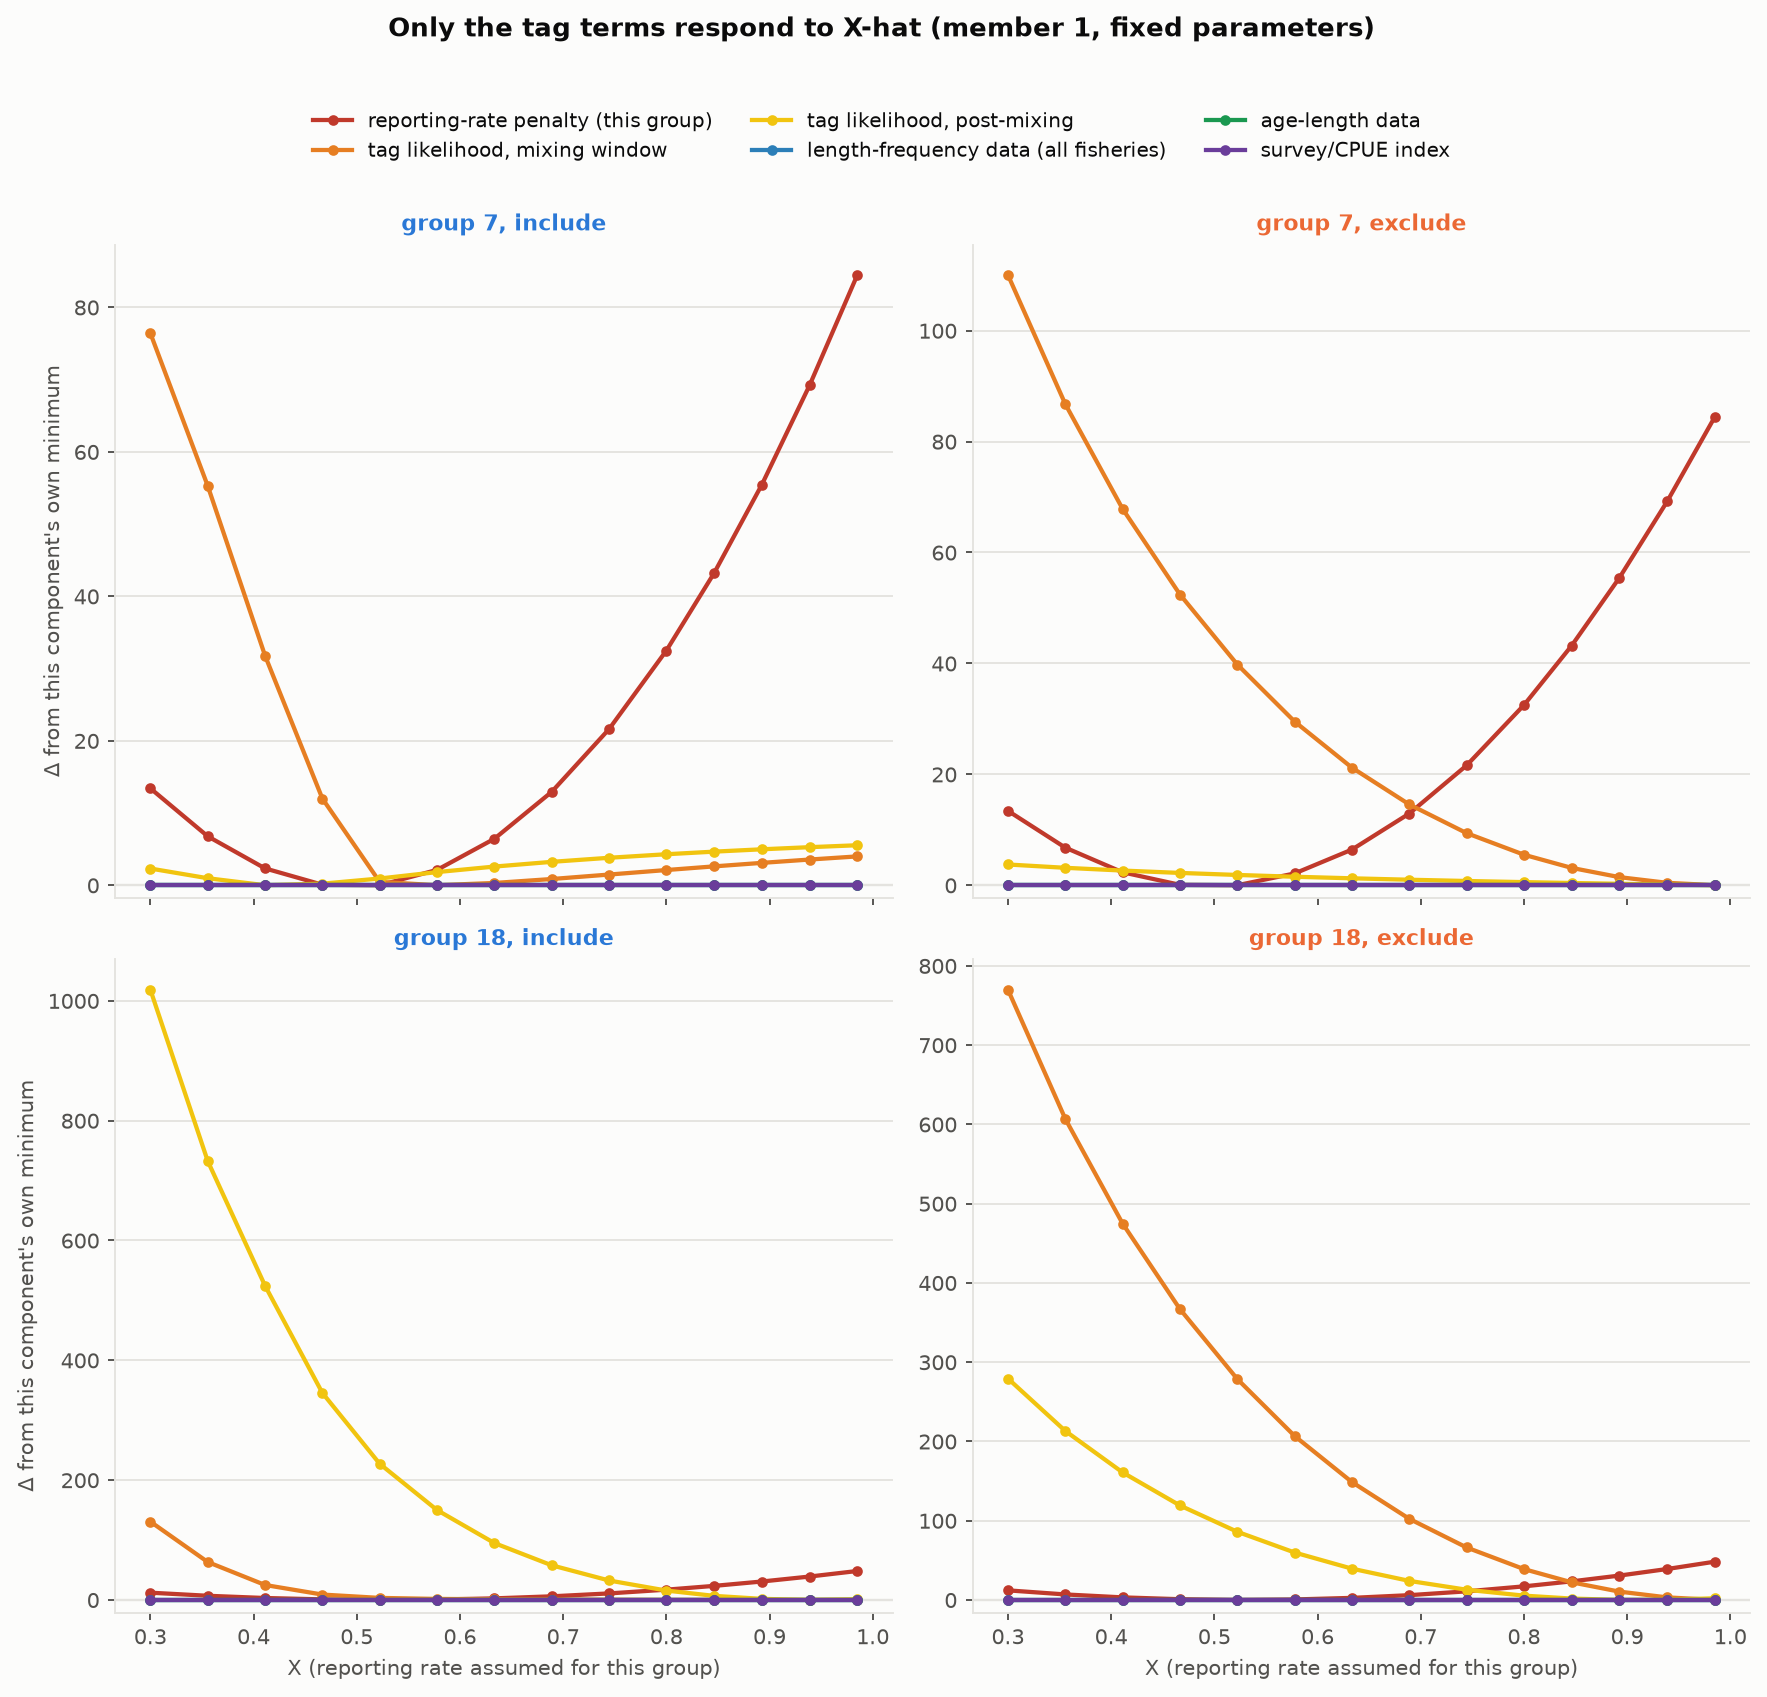
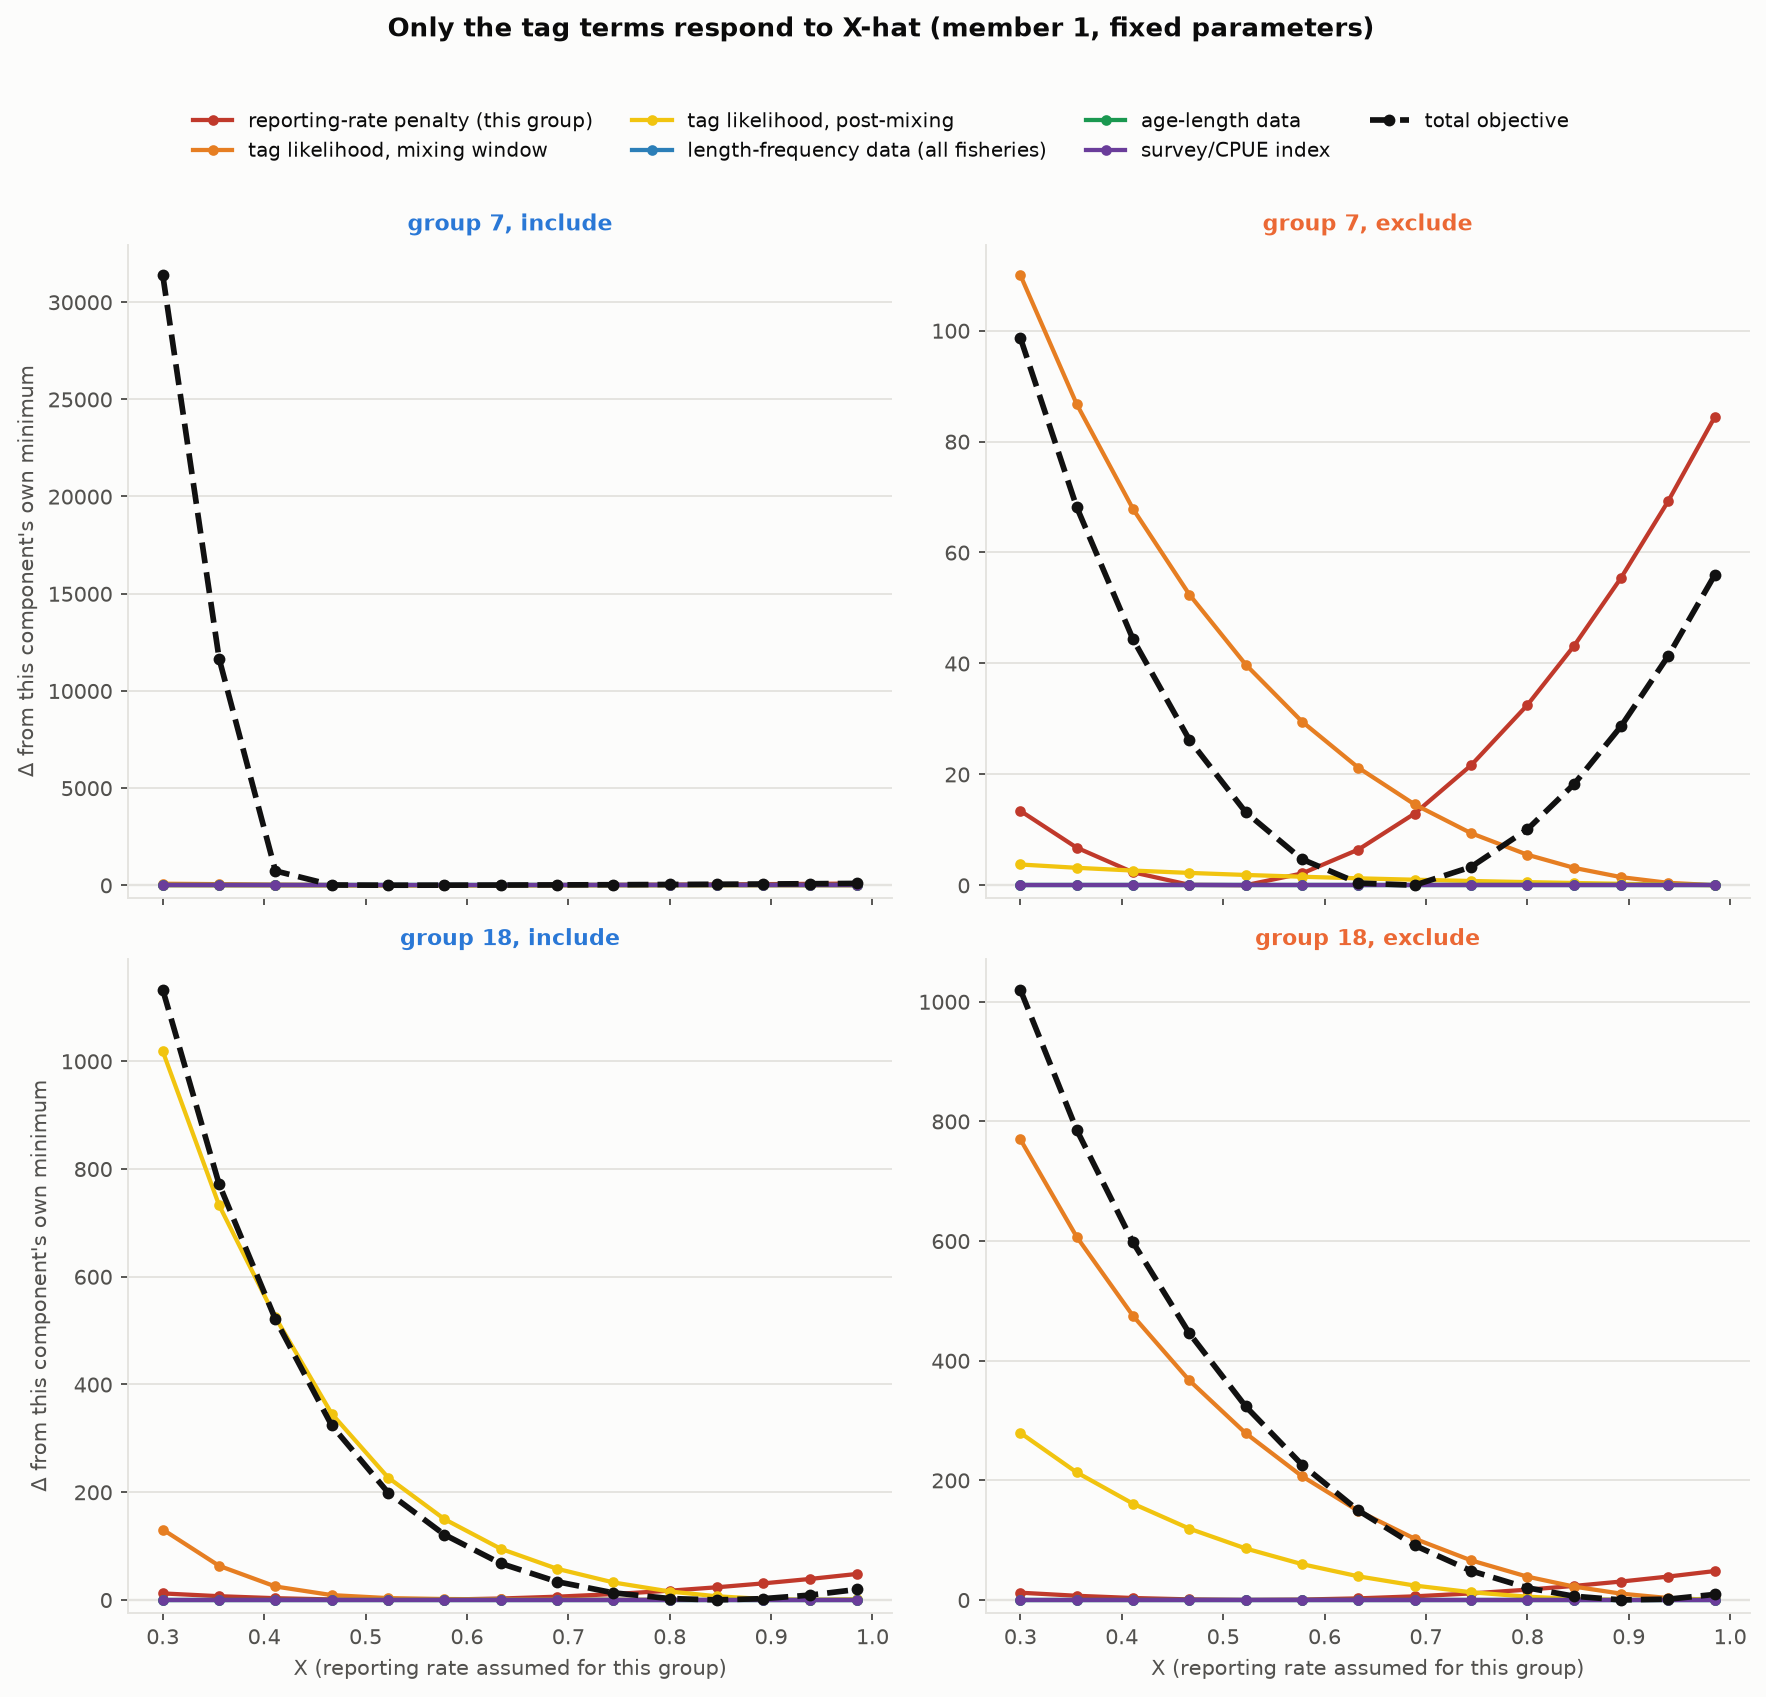
Add the total-objective line to the component-profile figure
Black dashed line, same delta-from-own-minimum treatment as the six
components. Under exclude it equals the sum of the three tag terms to
within floating-point noise, confirming again that exclude never touches
the survival floor. Under include it diverges from that sum by the
floor-cap residual (Part 3/Task 10) -- and doing this for two groups side
by side shows that residual is not a mild, uniform tax: ~3 objective
units for group 18 (matching the existing "costs at most a few units"
finding) but ~31,000 units for group 7 at X=0.30, well below its own
~0.52 fitted rate. The cap is a steep, group-specific cliff rather than a
gentle slope, and this sweep runs far enough left to fall off it for
group 7 but not group 18. Both groups' actual fitted rates sit safely
past where the residual plateaus, which is why the at-the-fitted-rate
cost documented elsewhere stays small -- this figure shows what the cost
looks like further down the cliff than either fit actually sits.

diff --git a/analysis/channel2/18-figures.py b/analysis/channel2/18-figures.py
@@ -221,6 +221,7 @@ COMPONENT_STYLE = {
     "age_length_total": ("#1a9850", "age-length data"),
     "survey_index_total": ("#6a3d9a", "survey/CPUE index"),
 }
+TOTAL_STYLE = ("#111111", "total objective")
 
 
 def fig_component_profile():
@@ -236,6 +237,22 @@ def fig_component_profile():
     objective units of range, not just approximately), so their delta-NLL
     is identically 0 everywhere -- flat at the axis floor because they have
     no minimum being profiled, not because of the normalisation choice.
+
+    The black line is the total objective, same delta-from-own-minimum
+    treatment. Under `exclude` it equals the sum of the three tag terms to
+    within floating-point noise (residual range ~1e-6), confirming again
+    that exclude never touches the survival floor. Under `include` it runs
+    above that sum by the floor-cap residual from Part 3/Task 10 -- and
+    that residual is wildly different in scale between the two groups
+    shown: ~3 objective units for group 18 (matching the "costs at most a
+    few units" finding already in the document) but ~31,000 units for
+    group 7 at the low end of this sweep (X=0.30, well below its own
+    fitted rate of ~0.52). The cap is not a mild, uniform tax -- it is a
+    steep, group-specific cliff, and this sweep happens to run far enough
+    left to fall off it for group 7. Both groups' own fitted rates sit
+    safely past where the residual plateaus, which is why the fitted-rate
+    cost stays small in practice; this is what the cost would look like if
+    a fit were pulled further down that cliff than these ones were.
     """
     path = os.path.join(OUT, "component-profile-sweep.csv")
     if not os.path.exists(path):
@@ -256,6 +273,10 @@ def fig_component_profile():
             for comp, (color, label) in COMPONENT_STYLE.items():
                 y = sub[comp].values - sub[comp].values.min()
                 ax.plot(sub.X, y, "-o", color=color, lw=1.8, ms=3.5, label=label, zorder=3)
+            tot_color, tot_label = TOTAL_STYLE
+            y_tot = sub.objective.values - sub.objective.values.min()
+            ax.plot(sub.X, y_tot, marker="o", color=tot_color, lw=2.4, ms=4,
+                    ls="--", label=tot_label, zorder=4)
             ax.axhline(0, color=GRID, lw=1, zorder=1)
             ax.set_ylim(bottom=-0.02 * ax.get_ylim()[1])
             style(ax)
@@ -266,7 +287,7 @@ def fig_component_profile():
             if gi == len(groups) - 1:
                 ax.set_xlabel("X (reporting rate assumed for this group)")
     handles, labels = axes[0][0].get_legend_handles_labels()
-    fig.legend(handles, labels, loc="upper center", ncol=3, fontsize=8.3,
+    fig.legend(handles, labels, loc="upper center", ncol=4, fontsize=8.3,
                bbox_to_anchor=(0.5, 1.05 if len(groups) == 1 else 1.03))
     fig.suptitle(f"Only the tag terms respond to X-hat (member {member}, fixed parameters)",
                  fontsize=11, fontweight="bold", y=1.12 if len(groups) == 1 else 1.08)
